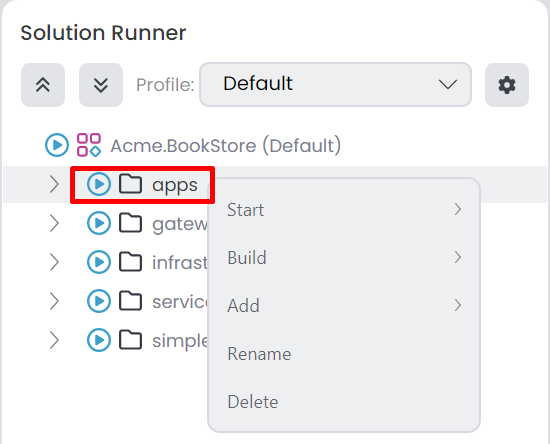
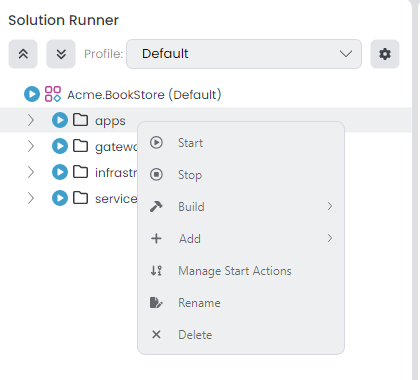
update running-applications for latest build changes

diff --git a/docs/en/studio/running-applications.md b/docs/en/studio/running-applications.md
@@ -41,21 +41,16 @@ When you click *Add New Profile*, it opens the *Create New Profile* window. You 
 
 ## Using the Profile
 
-After selecting the current profile, which is the *Default* profile that comes pre-configured, we can utilize the tree items. This allows us to execute collective commands and create various tree structures based on our specific needs. You can navigate through the root of the tree and right-click to view the context menu, which includes 3 options: `Run`, `Build` and `Add`.
+After selecting the current profile, which is the *Default* profile that comes pre-configured, we can utilize the tree items. This allows us to execute collective commands and create various tree structures based on our specific needs. You can navigate through the root of the tree and right-click to view the context menu, which includes 3 options: `Start All`, `Stop All`, `Build`, `Add` and `Manage Start Actions`.
 
 ![profile-root-context-menu](images/solution-runner/profile-root-context-menu.png)
 
-### Run
+### Start/Stop All
 
-We can start/stop the applications with this option. Go to root of the tree and right-click to view the context menu, in this example *Acme.Bookstore(Default)* -> *Run*.
-
-![profile-root-context-menu-run](images/solution-runner/profile-root-context-menu-run.png)
+We can start/stop the applications with this options. Go to root of the tree and right-click to view the context menu:
 
 - `Start All`: Start all(CLI, C#) applications.
 - `Stop All`: Stop all(CLI, C#) applications.
-- `Build & Start All`: Builds each C# application in the [Background Tasks](./overview#background-tasks) and starts all (CLI, C#) applications after the build tasks are completed.
-
-> `Start All` doesn't build the C# applications before running. If you're running it for the first time or if you've made changes, you should build the applications. You can simply use the `Build & Start All`.
 
 > You can change the current profile while applications are running in the previous profile. The applications continue to run under the previous profile. For example if we start the `Acme.BookStore.AdministrationService`, `Acme.BookStore.IdentityService` applications when current profile is *team-1* and after change the current profile to *team-2* the applications continue to run under *team-1*.
 
@@ -139,15 +134,13 @@ You can click the `OK` button to add the folder to the profile.
 
 ## Folder
 
-We already now why we need folder in the [previous](./running-applications.md#folder) section, we can use collective commands within this folder items. To do that go to folder and open the context menu by right-clicking, which includes 5 options `Start`, `Build`, `Add`, `Rename` and `Delete`.
+We already now why we need folder in the [previous](./running-applications.md#folder) section, we can use collective commands within this folder items. To do that go to folder and open the context menu by right-clicking, which includes 5 options `Start`, `Stop`, `Build`, `Add`, `Manage Start Actions`, `Rename` and `Delete`.
 
 ![folder-context-menu](images/solution-runner/folder-context-menu.png)
 
-### Start
+### Start/Stop
 
-You can see the context menu by right-clicking *Folder* -> *Start*, it's [similar](#run) like *Acme.BookStore(Default)* -> *Run* options, there are 3 options available. The only difference with root of the tree and folder is gonna be execute in selected folder.
-
-![folder-context-menu-start](images/solution-runner/folder-context-menu-start.png)
+You can see the context menu by right-clicking *Folder*. It will start/stop all the applications under the folder.
 
 ### Build
 
@@ -168,28 +161,15 @@ You can see the context menu by right-clicking *Folder* -> *Start*, it's [simila
 
 ## C# Application
 
-The .NET icon indicates that the application is a C# project. After we [add](#c-application) the C# applications to root of the tree or folder, we can go to any C# application and right-click to view the context menu; `Run`, `Build`, `Browse`, `Requests`, `Exceptions`, `Logs`, `Copy URL`, `Properties`, `Remove`.
+The .NET icon indicates that the application is a C# project. After we [add](#c-application) the C# applications to root of the tree or folder, we can go to any C# application and right-click to view the context menu; `Start`, `Build`, `Browse`, `Requests`, `Exceptions`, `Logs`, `Copy URL`, `Properties`, `Remove`.
 
 ![csharp-application-context-menu](images/solution-runner/csharp-application-context-menu.png)
 
-### Run
+### Start
 
-We have several options in C# applications. Those options are `Start`(If the application started this option shown as `Stop`), `Build & Start`(If the application started this option shown as `Build & Restart`), `Enable Watch`(If the watch is enabled this option shown as `Disable Watch`), `Restart`(It's only shown when the application started)
-
-![csharp-application-context-menu-run](images/solution-runner/csharp-application-context-menu-run.png)
-
-- `Start`: Starts the selected application. This option doesn't build before run. If you're running it for the first time or if you've made changes, you should build the application. If the application is started this option changed as `Stop`.
-- `Build & Start`: We can simply use if we wanna build first and start. If the application is started this option changes to `Build & Restart`.
-- `Enable Watch`: When this option is enabled, there's no need to perform `Build & Start` after any change. ABP Studio watches for changes, re-builds, and re-runs your application automatically upon saving. If this option is enabled it changes to `Disable Watch`.
-- `Restart`: Restarts the application. This option visible only if the application started.
+Starts the selected application. Once it is started, *Stop* and *Restart* options will be available.
 
 > When you start the C# application, you should see a *chain* icon next to the application name, that means the started application connected to ABP Studio. C# applications can connect to ABP Studio even when running from outside the ABP Studio environment, for example debugging with Visual Studio. If the application is run from outside the ABP Studio environment, it will display *(external)* information next to the chain icon.
-
-> When *Watch* is enable you should see an *eye* icon next to the application name.
-
-> Hint: Performing CTRL+Click on the start icon left to a stopped C# application equals to `Build & Start` command. Same applies for folders.
-
-![csharp-application-context-menu-run-connection](images/solution-runner/csharp-application-context-menu-run-connection.png)
 
 ### Build
 
@@ -214,7 +194,9 @@ We can open the *Application Properties* window to change *Launch url*, *Kuberne
 
 ![solutioın-runner-properties](images/solution-runner/solutioın-runner-properties.png)
 
-You can click the `OK` button to save the changes.
+When *Watch changes while running* is enable you should see an *eye* icon next to the application name.
+
+![csharp-application-context-menu-run-connection](images/solution-runner/csharp-application-context-menu-run-connection.png)
 
 ### Miscellaneous
 
@@ -228,7 +210,7 @@ CLI applications uses the [powershell](https://learn.microsoft.com/en-us/powersh
 
 ![cli-application-context-menu](images/solution-runner/cli-application-context-menu.png)
 
-- `Run`: This option includes 3 actions: *Start*, *Stop*, and *Restart* for the CLI application.
+- `Start`: Starts the application. Once it is started, *Start* and *Restart* options will be available.
 - `Browse`: This option is available when a *Launch URL* is specified upon adding the CLI application. It opens the *Browse* tab, can be clicked while the application is running.
 - `Logs`: It opens the *Logs* tab, we can see the logs for *Start* and *Stop* commands.
 - `Copy URL`: This option copies the *Launch URL* of the selected application. It is visible if there is a specified *Launch URL*
